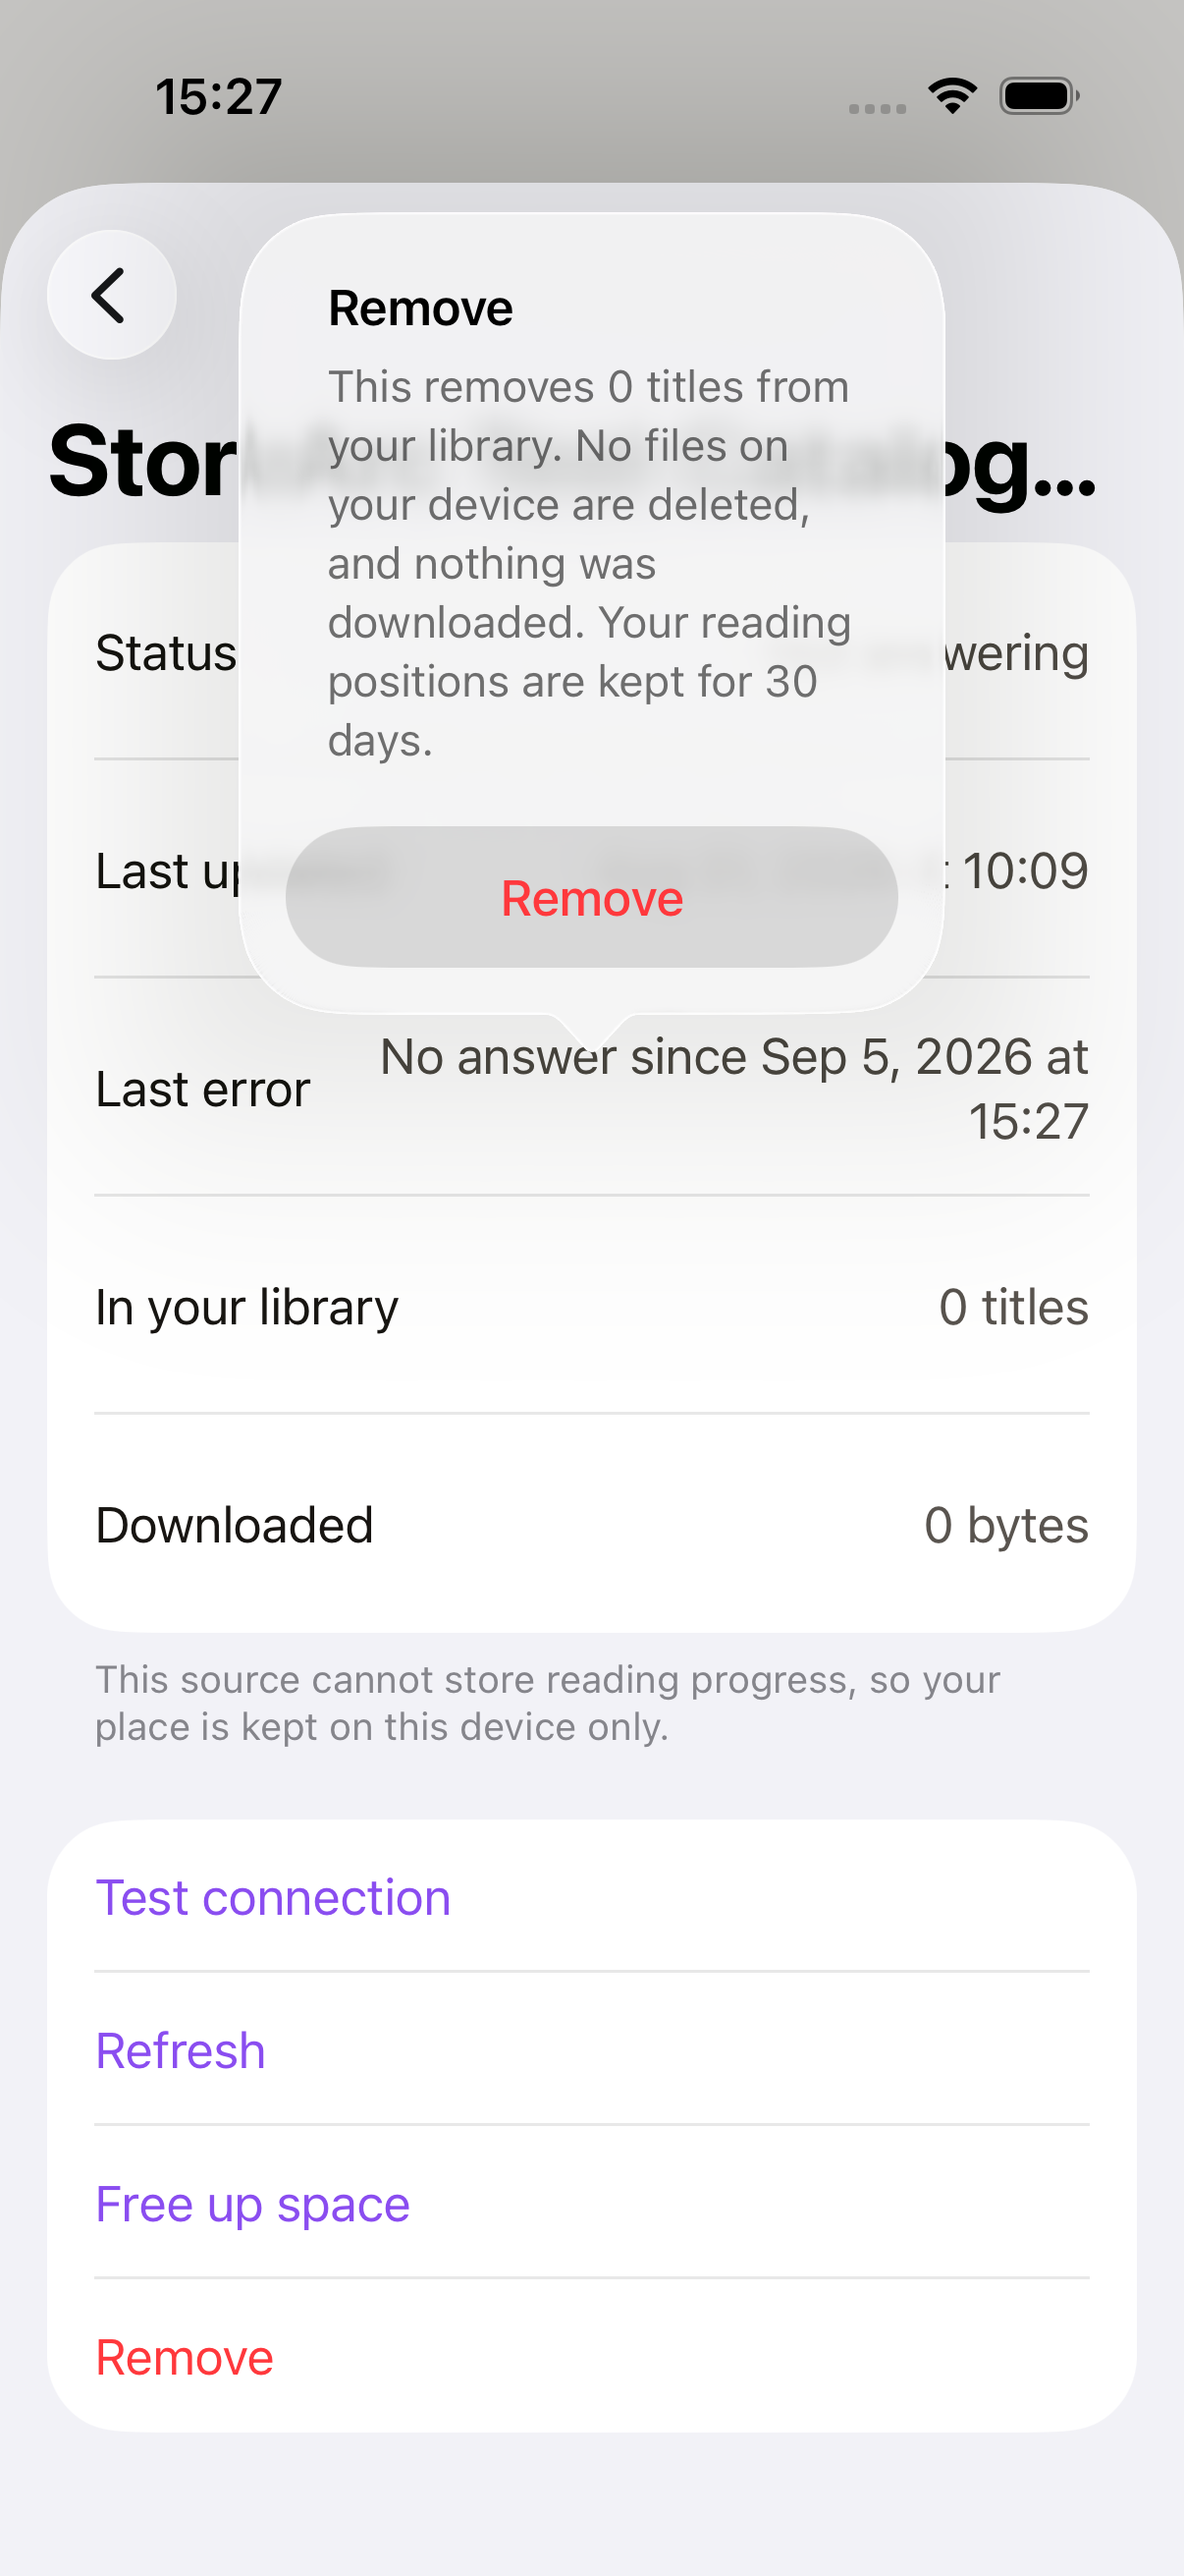
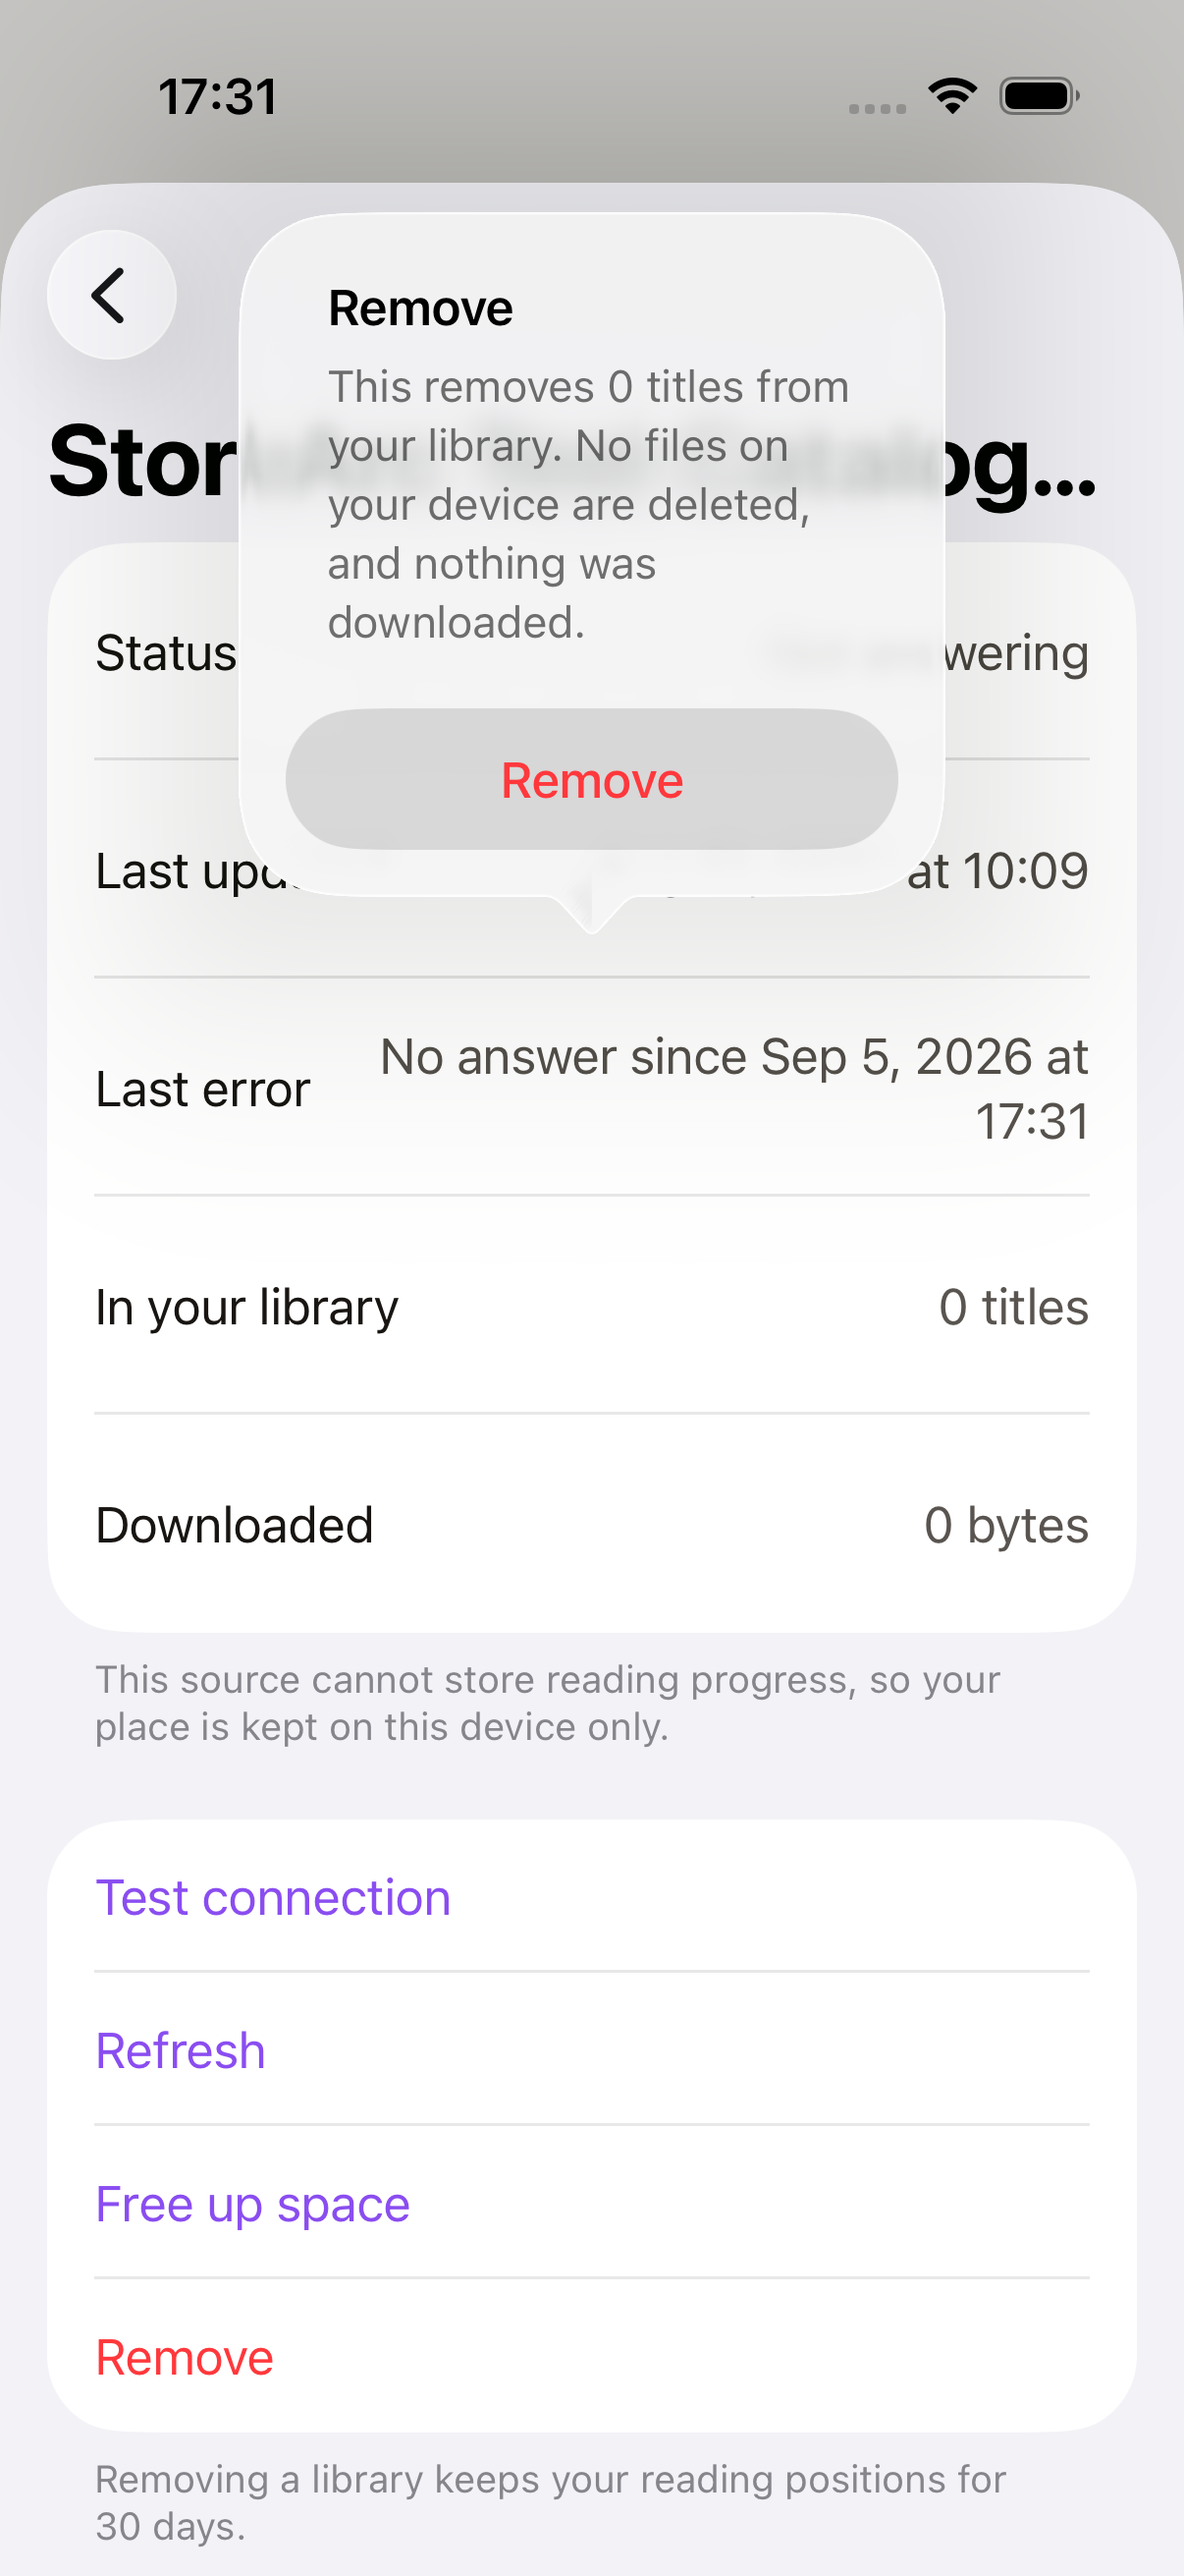
fix(ios): the thirty days a removal keeps moved from the dialog to a footer the reader sees first
At AccessibilityXXXL the removal confirmation's body stopped at "No
files" and the retention sentence was not on screen, on a destructive
action, with a -scrolled frame proving it could not be reached. An alert
does not scroll either; the length was the lever, not the presentation.

The sentence is now sources.remove.footer under the actions, in four
languages, shown whenever Remove is offered, wrapping freely at every
size and read before the tap. The dialog keeps the two sentences about
this press. SourceDetailSizeTests pins the footer and fails without it.
Eight frames retaken; the README records what the AX5 frame shows now.

The retake also found that removal keeps a source's downloads on disk
while both Downloads screens stop listing them, against the sources
spec. Recorded on task 4.6 and in the README for the removal path to own.

diff --git a/apps/ios/Packages/StoryArcKit/Sources/SettingsFeature/SourceDetail.swift b/apps/ios/Packages/StoryArcKit/Sources/SettingsFeature/SourceDetail.swift
@@ -74,6 +74,23 @@ struct SourceDetail: View {
                     }
                     .disabled(isWorking)
                 }
+            } footer: {
+                // **The thirty days live here now, not in the confirmation.** The sentence
+                // used to be the last of three in the removal dialog's body, and at
+                // `AccessibilityXXXL` the body stopped at "No files" — photographed on
+                // 2026-09-05, with a `-scrolled` twin proving the rest could not be reached,
+                // because a confirmation's message does not scroll. An `alert` was tried and
+                // does not scroll either; presentation was not the lever, the length was.
+                //
+                // A footer under the actions wraps freely at every text size and is read
+                // *before* the reader taps Remove, which is when the fact is useful. The
+                // dialog keeps the two sentences that answer "what does this do right now";
+                // this one answers "and what about my place", which is a fact about removal
+                // rather than about this press of the button. Shown whenever removal is
+                // offered, so it is never a surprise in the dialog that follows.
+                if diagnosis.actions.contains(.remove) {
+                    Text("sources.remove.footer", bundle: .module)
+                }
             }
         }
         .navigationTitle(source.displayName)

diff --git a/apps/ios/Packages/StoryArcKit/Tests/SettingsFeatureTests/SourceDetailSizeTests.swift b/apps/ios/Packages/StoryArcKit/Tests/SettingsFeatureTests/SourceDetailSizeTests.swift
@@ -168,4 +168,22 @@ struct SourceDetailSizeTests {
         return try String(contentsOf: file, encoding: .utf8)
     }
 
+    /// The thirty-day retention sentence is on the screen, under the actions.
+    ///
+    /// It used to be the third sentence of the removal confirmation, and at the largest text
+    /// size that confirmation stopped at "No files" with no way to scroll to the rest — so the
+    /// one fact a reader most needs before a destructive action was the one they could not
+    /// reach. It is a footer now, read before the tap. This asserts the footer is in the built
+    /// tree whenever removal is offered; `ios-settings-source-remove-ax5.png` and its
+    /// siblings are what prove it fits.
+    @Test("Removal's retention sentence is a footer under the actions, not a line in the dialog")
+    func retentionIsAFooter() {
+        let strings = Self.rendered(Self.diagnosis(bytes: 0, downloads: 0))
+        #expect(
+            strings.contains("sources.remove.footer"),
+            "the actions section carries no retention footer, so the thirty days are back in a "
+                + "dialog that cannot show them at the largest text size"
+        )
+    }
+
 }

diff --git a/docs/designs/screenshots/source-lifecycle-2026-09-05/README.md b/docs/designs/screenshots/source-lifecycle-2026-09-05/README.md
@@ -1,6 +1,6 @@
 # The source detail screen — iOS, 2026-09-05
 
-`source-lifecycle` §4.1's and §4.3's iOS halves. Six frames from `StoryArc-iPhone17Pro`
+`source-lifecycle` §4.1's, §4.3's and §4.6's iOS halves. Twelve frames from `StoryArc-iPhone17Pro`
 (402 pt), taken with `scripts/capture-ios.mjs`.
 
 | Frame | Task | Appearance | Text size |
@@ -11,6 +11,12 @@
 | `ios-settings-source-detail-ax5-dark.png` | §4.1 | dark | `AccessibilityXXXL` |
 | `ios-source-unreachable-detail.png` | §4.3 | light | default |
 | `ios-source-unreachable-detail-dark.png` | §4.3 | dark | default |
+| `ios-settings-source-remove.png` | §4.6 | light | default |
+| `ios-settings-source-remove-dark.png` | §4.6 | dark | default |
+| `ios-settings-source-remove-ax5.png` | §4.6 | light | `AccessibilityXXXL` |
+| `ios-settings-source-remove-ax5-scrolled.png` | §4.6 | light | `AccessibilityXXXL`, after a swipe |
+| `ios-settings-source-remove-ax5-dark.png` | §4.6 | dark | `AccessibilityXXXL` |
+| `ios-settings-source-remove-ax5-scrolled-dark.png` | §4.6 | dark | `AccessibilityXXXL`, after a swipe |
 
 Surface: *Settings › Your libraries › one source*. The walk opens `StoryArc Test Catalogue`
 and falls back to `Attic NAS`; **which of the two it lands on varies between runs**, so the
@@ -104,6 +110,38 @@ not scroll either. Presentation is not the lever.
 days"`, and that assertion **passes at AX5**: the message is one label in the accessibility
 tree, so VoiceOver reads it in full. A guard asserting existence would have called this screen
 correct while a sighted reader could not see the sentence at all.
+
+### Fixed the same day: the thirty days moved onto the screen
+
+The frames named above are now the **retaken** set, shot after the fix. The retention
+sentence left the dialog and became a footer under the actions — `sources.remove.footer`,
+*"Removing a library keeps your reading positions for 30 days."*, in four languages — shown
+whenever *Remove* is offered. `ios-settings-source-detail.png` shows it under the red row at
+the default size, and `SourceDetailSizeTests/retentionIsAFooter` pins that it is there.
+
+Why a footer and not a shorter dialog: a footer wraps freely at every text size, and it is read
+*before* the reader taps Remove, which is when the fact is useful. The dialog keeps the sentences
+that answer "what does this do right now"; the footer answers "and what about my place", which
+is a fact about removal rather than about this press of the button.
+
+**What the AX5 frame shows now, honestly.** `ios-settings-source-remove-ax5.png` reads *"This
+removes 0 titles from your library. No files"* — the body is two sentences instead of three and
+still stops at the same word, because a `confirmationDialog` at that size holds about seven
+short lines and the first sentence is six of them. What is cut is now the reassurance that no
+files are deleted, not the retention; the retention is on the screen beneath. The `-scrolled`
+twin is still identical, for the reason given above.
+
+**A finding the fix turned up, and it is bigger than the wording.** `sources`' scenario
+*Removing a source* says the app "states how many downloaded files and how much disk space will
+be freed before asking" and "on confirmation removes the source, its cached metadata, its stored
+credentials, **and its downloads**". Neither platform does: `LibraryModel.remove` and
+`LibraryViewModel.removeSource` both say in their own comments that files on disk are never
+touched, and the dialog's *"nothing was downloaded"* is a sentence that is only true at zero.
+Worse, both Downloads screens list *shelf publications* that are on the device — so a removed
+source's downloads leave the shelf, leave the Downloads screen, and stay on disk as bytes nothing
+lists and only the total counts. That is a spec-versus-implementation gap on a destructive
+action, owned by the removal path rather than by this dialog, and it is recorded here so the
+dialog is not rewritten twice.
 
 ## Two walks that could not run, and why
 

diff --git a/docs/openspec/changes/source-lifecycle/tasks.md b/docs/openspec/changes/source-lifecycle/tasks.md
@@ -341,6 +341,18 @@ filename so a light and a dark run cannot overwrite each other.
       onto the screen as a footer under the actions, where it wraps freely and is read *before*
       the reader ever taps Remove, leaving the dialog a short question.
 
+      **Decided and done on 2026-09-05: the footer.** `sources.remove.footer` sits under the
+      actions in four languages, the dialog body is two sentences, `SourceDetailSizeTests/
+      retentionIsAFooter` pins the footer, and the eight frames were retaken. The AX5 dialog now
+      stops at *"No files"* with the retention read on the screen beneath it, before the tap.
+
+      **The retake found the larger defect, and it is the removal path's.** `sources`' *Removing
+      a source* says removal states the bytes it frees and takes the source's downloads with it.
+      Neither platform deletes them, both Downloads screens list shelf publications only, and
+      the dialog's *"nothing was downloaded"* is true only at zero — so a removed source's
+      downloads become bytes on disk that nothing lists. Recorded in the frames' README; the
+      dialog is not rewritten until that is settled, so it is not rewritten twice.
+
       **One thing the frames caught that a test could not.** The walk asserts the sentence by
       `staticTexts … CONTAINS "30 days"` and that assertion **passes at AX5**: the whole message
       is one label in the accessibility tree, so VoiceOver reads it in full while a sighted
